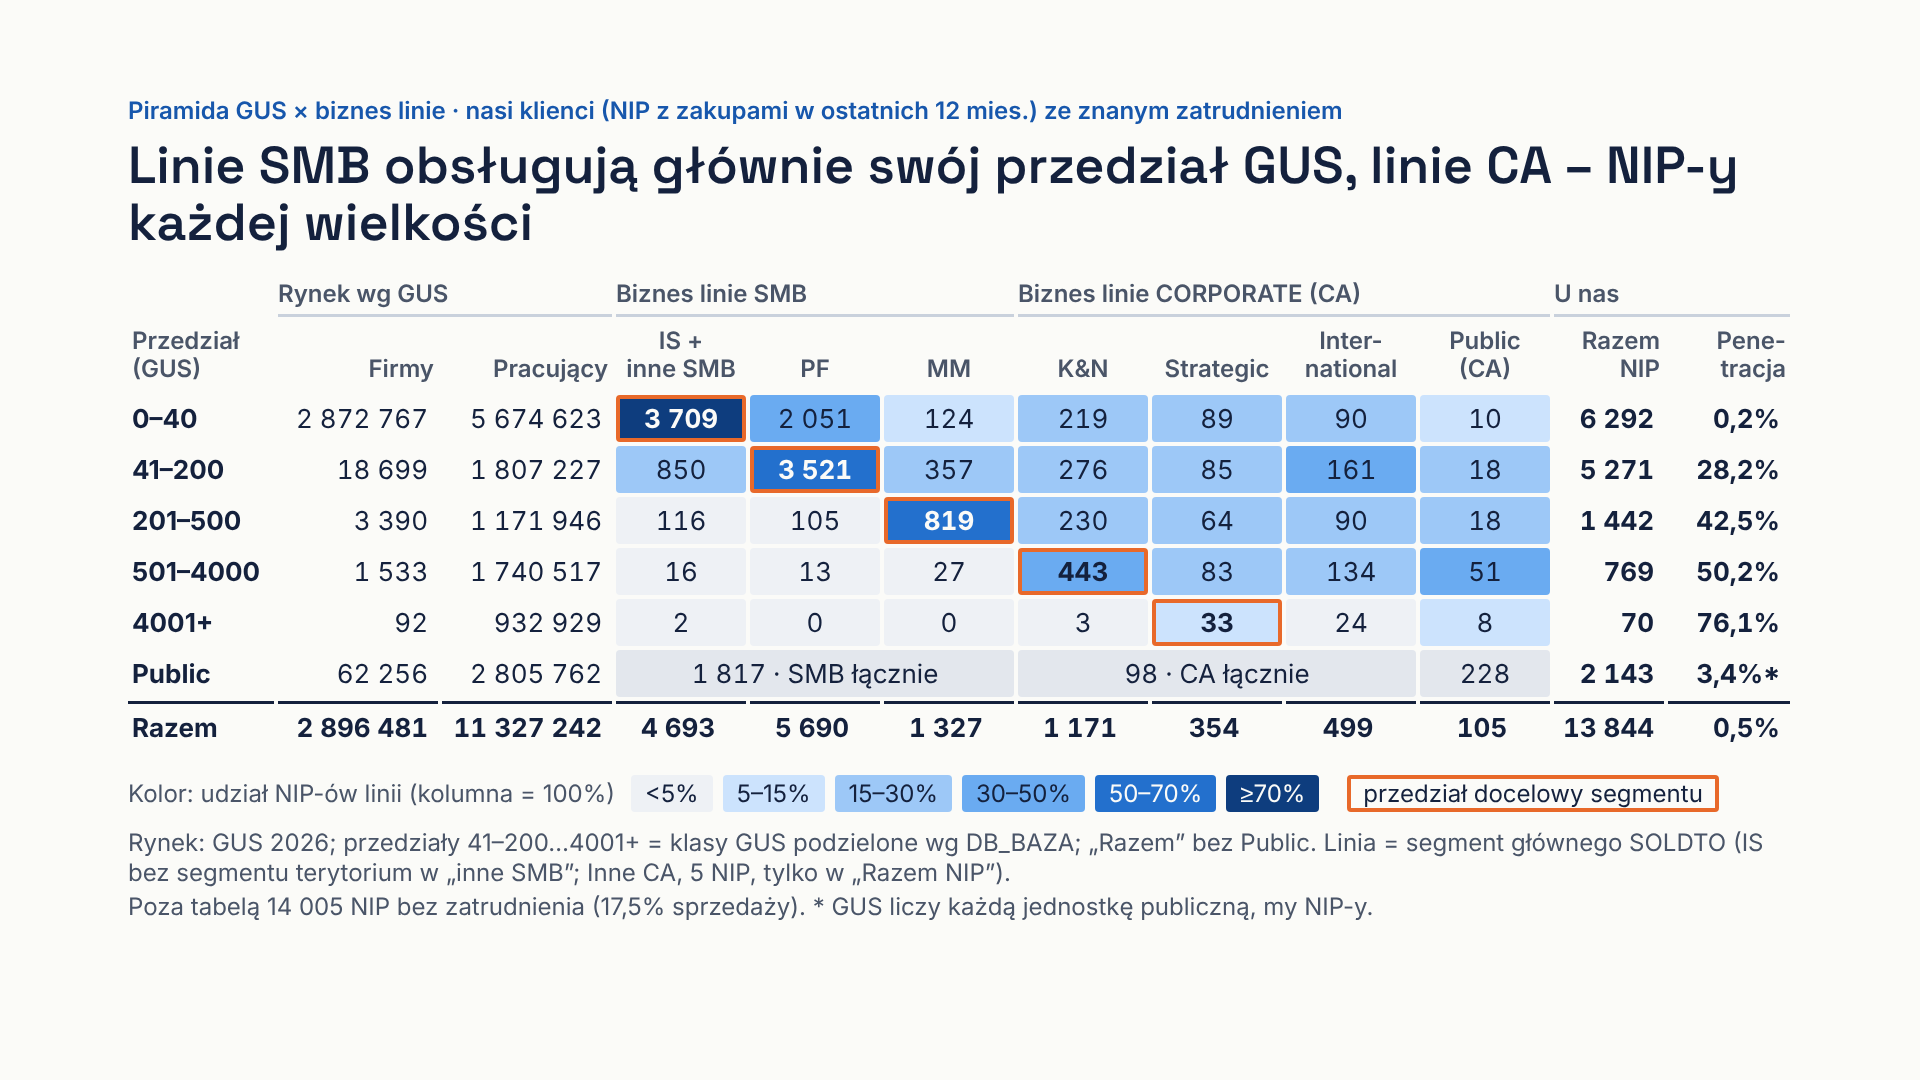
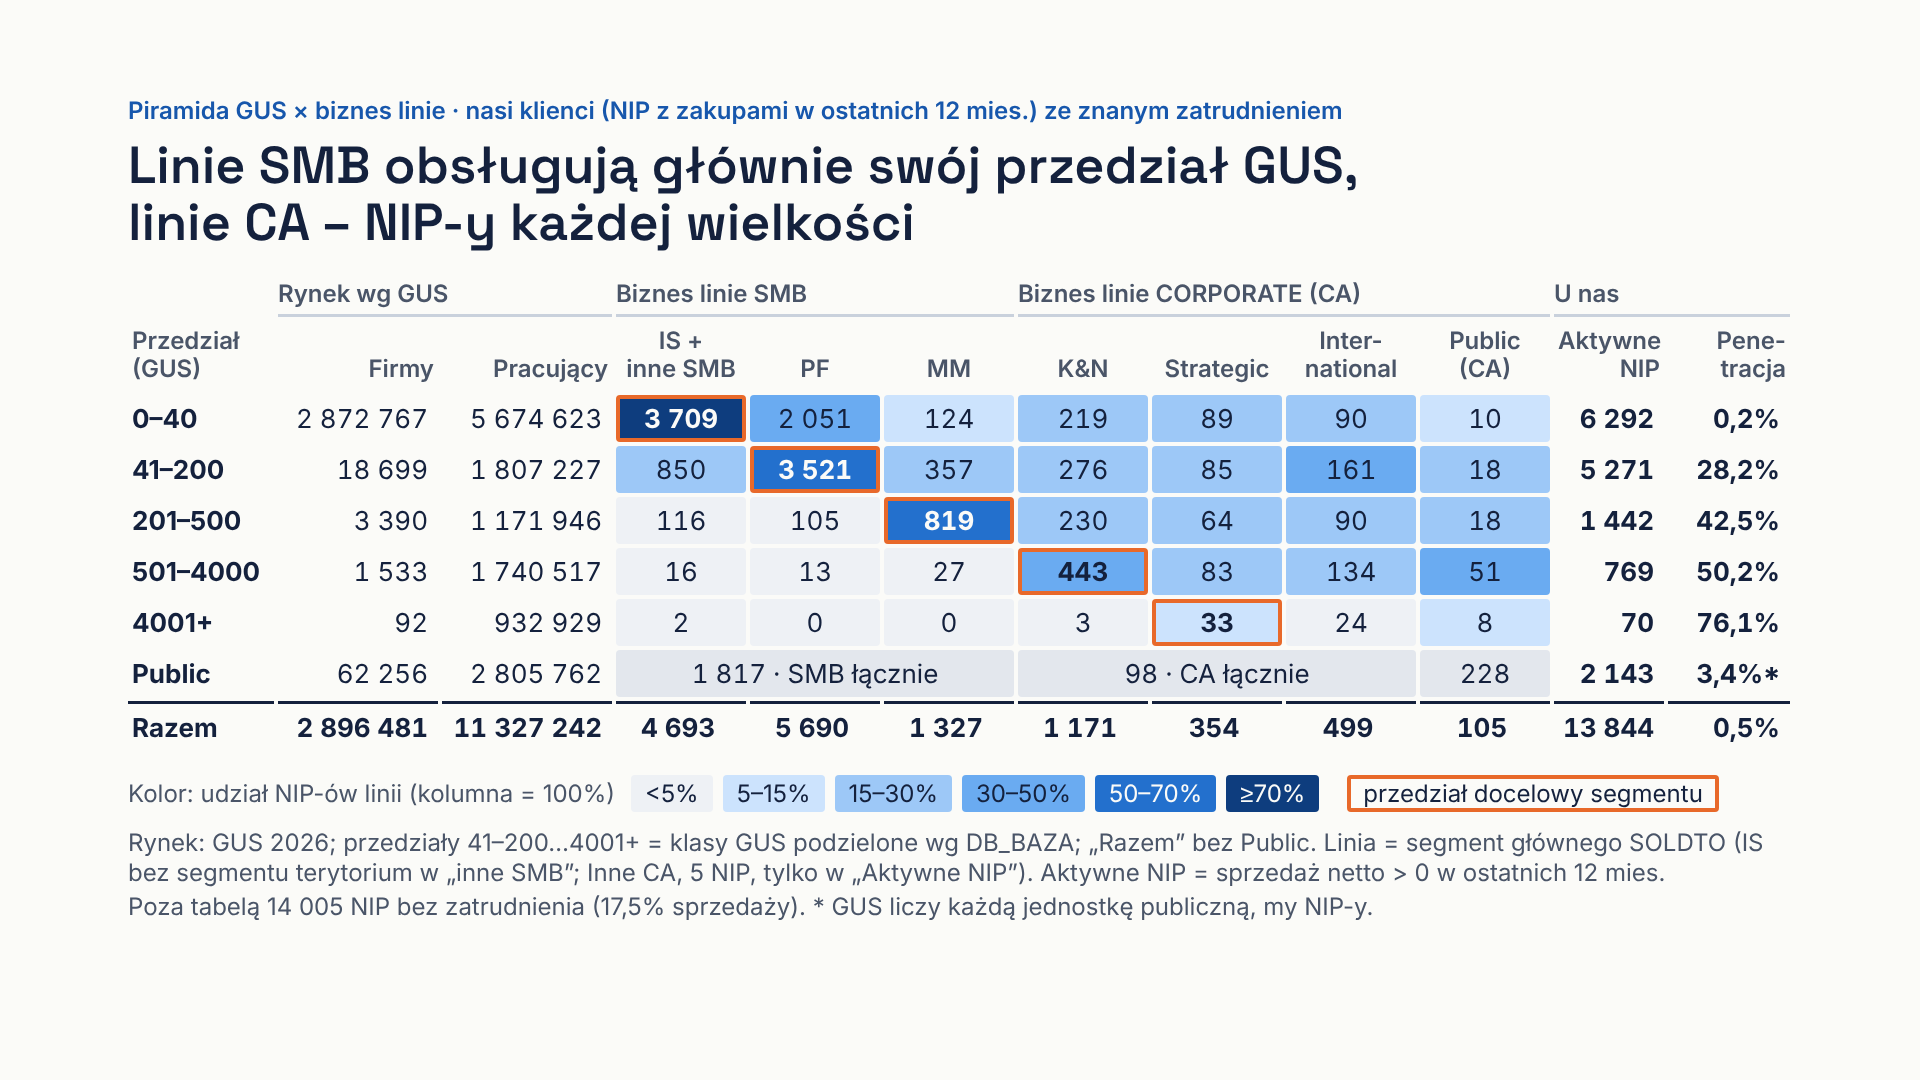
Slajd GUS x biznes linie: naglowek "Aktywne NIP"; diagnostyka D26
D26: klienci w portfolio (nieusuniete SOLDTO z NIP-em platnika albo
zakupy w 12 mies.) i aktywni, w standardowych klasach GUS (0-9 / 10-49 /
50-249 / 250-999 / 1000+, Public, bez zatrudnienia) x biznes linia
(region sprzedazy glownego SOLDTO: IS, FS, Mid Market, Other SMB, K&N,
Strategic, International, Public, Other CA, Quarantine).

Claude-Session: https://claude.ai/code/session_01XKqyymM4iGumhJbEjTSpGW

diff --git a/piramida_klientow/prezentacja/slajd_gus_x_biznes_linie/slides/macierz.html b/piramida_klientow/prezentacja/slajd_gus_x_biznes_linie/slides/macierz.html
@@ -18,7 +18,7 @@
 <p class="kol">Strategic</p>
 <p class="kol">Inter-<br>national</p>
 <p class="kol">Public<br>(CA)</p>
-<p class="kol kol-r">Razem<br>NIP</p>
+<p class="kol kol-r">Aktywne<br>NIP</p>
 <p class="kol kol-r">Pene-<br>tracja</p>
 
 <p class="wiersz">0–40</p>
@@ -118,7 +118,7 @@
 <p class="chip h5">≥70%</p>
 <p class="chip-cel">przedział docelowy segmentu</p>
 </div>
-<p class="przypis">Rynek: GUS 2026; przedziały 41–200…4001+ = klasy GUS podzielone wg DB_BAZA; „Razem” bez Public. Linia = segment głównego SOLDTO (IS bez segmentu terytorium w „inne SMB”; Inne CA, 5 NIP, tylko w „Razem NIP”).</p>
+<p class="przypis">Rynek: GUS 2026; przedziały 41–200…4001+ = klasy GUS podzielone wg DB_BAZA; „Razem” bez Public. Linia = segment głównego SOLDTO (IS bez segmentu terytorium w „inne SMB”; Inne CA, 5 NIP, tylko w „Aktywne NIP”). Aktywne NIP = sprzedaż netto &gt; 0 w ostatnich 12 mies.</p>
 <p class="przypis">Poza tabelą 14 005 NIP bez zatrudnienia (17,5% sprzedaży). * GUS liczy każdą jednostkę publiczną, my NIP-y.</p>
 <aside>Lewa strona to struktura rynku z GUS, traktowana jako pewnik: liczba firm i pracujących w każdym przedziale wielkości. Przedziały 41–200, 201–500, 501–4000 i 4001+ powstały z klas GUS podzielonych według rozkładu firm w DB_BAZA; suma zgadza się z GUS.
 
